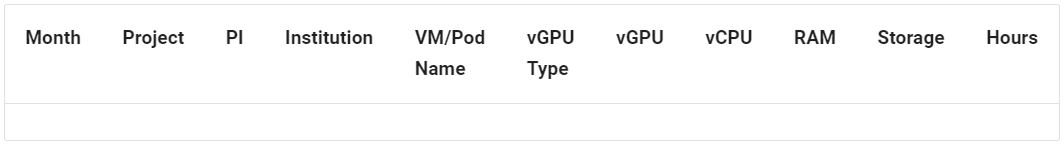
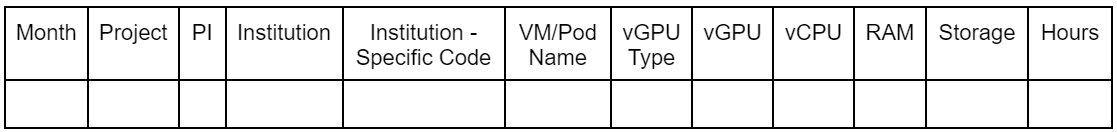
updated content till 7/17/2023

Changed region(s): [[0.0, 0.0303, 1.0, 1.0], [0.3102, 0.3636, 0.6203, 0.5455]]

diff --git a/docs/get-started/pricing-model.md b/docs/get-started/pricing-model.md
@@ -11,11 +11,7 @@ any obligations of long-term contracts or complicated licensing agreements.
 
 ### Service Units (SU)
 
-| Name          | vGPU | vCPU | RAM (GB) | Price  |
-| :-----------: | :--: | :--: | :------: | :----: |
-| CPU           | 0    | 1    | 4        | $0.013 |
-| A100 GPU      | 1    | 24   | 96       | $1.790 |
-| A2 GPU        | 1    | 8    | 64       | $0.463 |
+![Service Units (SU)](images/su.png)
 
 ### High Level Function
 
@@ -40,18 +36,25 @@ Pod was running), rounded up to whole hour
 Service Units can only be purchased as a whole unit. We will charge for Pods and
 VMs on a per hour basis, for any portion of an hour they are used, and any VM
 "flavor"/Pod reservation is charged as a multiplier of the base SU for the maximum
-resource they reserve.
+resource they reserve. 
 
 For example, if a PI has a Pod or VM with 1 A100 GPU but 48 vCPUs, 192MB of RAM
 they would be charged for 2 A100 GPU SUs, due to the extra vCPUs. For 3 vCPU but
 20 GB RAM they would be charged for 5 CPU SUs, due to the extra RAM.
 
+We will calculate GPU SU to use up as many pods as we can to get to the GPU SU
+resource size and then charge the rest as CPU SUs.
+
+OpenShift Pods are summed up to the project level so that fractions of CPU/RAM
+that some pods use will not get overcharged.
+
 ### Storage
 
 Storage is charged separately at a rate of $0.009 TB/hr or $9.00E-12 KB/hr at a
-granularity of KB/hr. OpenStack Volumes count until they are deleted. VM’s reserve
-volumes and you can also create extra volumes yourself. In OpenShift Pods only hold
-on to storage while they are active and PV’s hold onto storage until they are deleted.
+granularity of KB/hr. Storage SUs are therefore KB. OpenStack Volumes count until
+they are deleted. VM’s reserve volumes and you can also create extra volumes yourself.
+In OpenShift Pods only hold on to storage while they are active and Persistent
+Volumes hold onto storage until they are deleted.
 Storage includes all types of storage Object, Block, Ephemeral & Image.
 
 !!! note "Please note"
@@ -64,20 +67,20 @@ Storage includes all types of storage Object, Block, Ephemeral & Image.
 ### Combined Data CSV
 
 This is the format of the csv that we will gather from ColdFront, Keycloak, OpenShift,
-and OpenStack so that we can calculate the [**Monthly Billing Data**](#monthly-billing-data).
+and OpenStack so that we can calculate the [**Monthly Invoicing Data**](#monthly-invoicing-data-csv).
 
 ![Combined data CSV](images/pricing-combined-data-csv-format.png)
 
-### Monthly Billing Data CSV
+### Monthly Invoicing Data CSV
 
-This is the format of the data we wish to send to the billing software so that it
-provides all the information they need to bill an institution and allow that institution
-to properly bill their PIs, and for their PIs to properly track what projects are
-costing them what. Billing Type is broken into 4 types (CPU SU, A100 GPU SU, A2
-GPU SU, and Storage). Billing Type Multiplier represents SUs for the SUs and Storage
-size for Storage.
+This is the format of the data we wish to send to the Invoicing software so that
+it provides all the information they need to invoice an institution and allow that
+institution to properly allocate costs to their PIs, and for their PIs to properly
+track what projects are costing them what. SU Type is broken into 4 types (CPU,
+A100 GPU, A2 GPU, and Storage). SU Hours represents KB hrs for Storage and Resource
+Hours grouped as described in the [SU section](#service-units-su).
 
-![Monthly Billing Data](images/pricing-monthly-billing-data.png)
+![Monthly Invoicing Data](images/pricing-monthly-invoicing-data.png)
 
 ## Frequently Asked Questions
 
